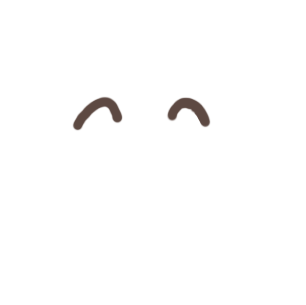
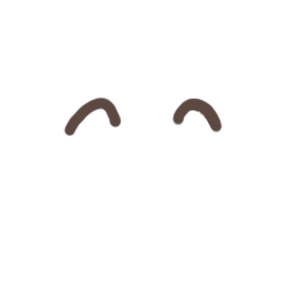
.

Changed region(s): [[0.5294, 0.2951, 0.7353, 0.4426], [0.2059, 0.2951, 0.4118, 0.4426]]

diff --git a/src/App.js b/src/App.js
@@ -39,6 +39,9 @@ const body1EyeImages = [
   { id: 12, src: `${process.env.PUBLIC_URL}/images/eye12_body1.png` },
   { id: 13, src: `${process.env.PUBLIC_URL}/images/eye13_body1.png` },
   { id: 14, src: `${process.env.PUBLIC_URL}/images/eye14_body1.png` },
+  { id: 15, src: `${process.env.PUBLIC_URL}/images/eye15_body1.png` },
+  //{ id: 16, src: `${process.env.PUBLIC_URL}/images/eye16_body1.png` },
+  
 ];
 
 const body1MouthImages = [
